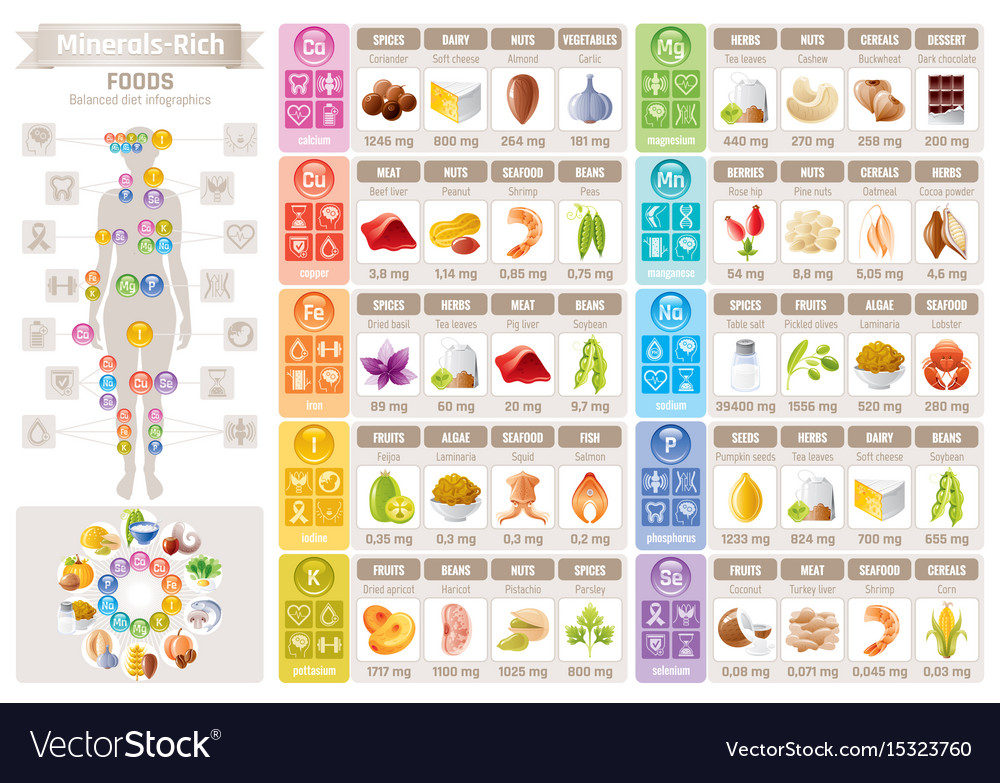
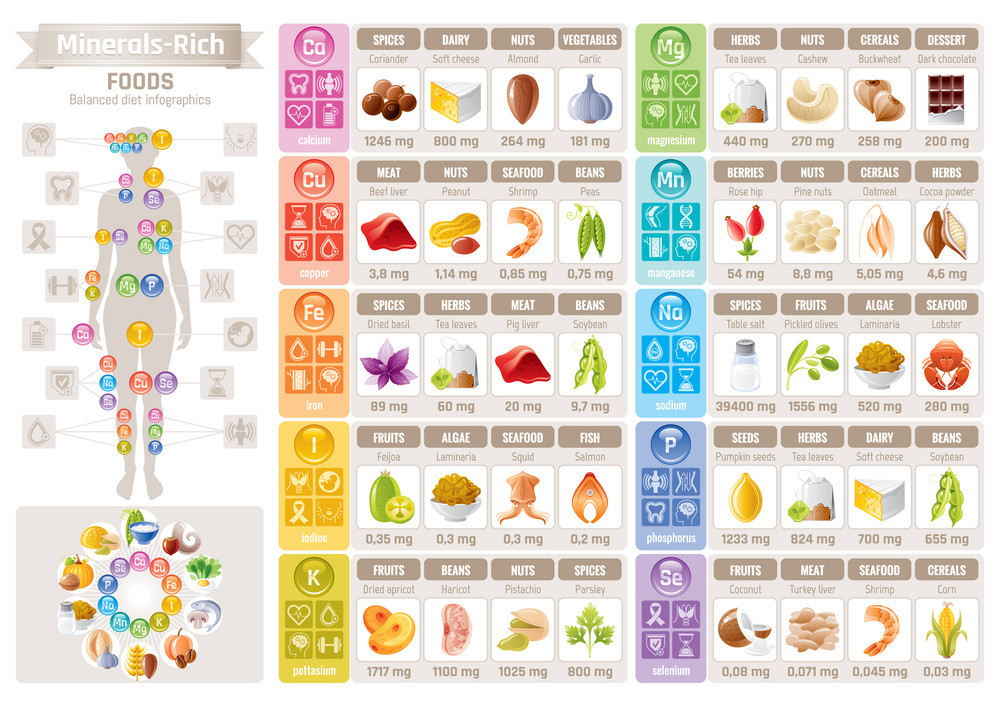
Added information and image to Minerals tab of partial-info.html. Editted image on page to exclude watermark.

diff --git a/views/partial-info.html b/views/partial-info.html
@@ -45,7 +45,6 @@
     </section>
     <br>
     <section class="container">
-        
         <table class="table is-bordered is-hoverable">
                 <tr class="is-selected">
                     <th>VITAMIN</th>
@@ -265,7 +264,33 @@
     </section>
 </div>
 <div id="Minerals" style="display: none;" class="info-tab">
+    <h1 class="title has-text-centered">15 Essential Minerals</h1>
     <section class="container">
+            <div class="tile is-ancestor">
+
+                    <div class="tile is-parent">
+                    <article class="tile is-child box">
+                        <p class="title">Mineral Classifications</p>
+                        <p class="subtitle">Major and Trace</p>
+                        <div class="content">
+                        <p>Your body needs two types of minerals to function normally; major minerals and trace minerals. The classifications of the minerals aren't based on how important they are, but how prevalent they are throughout your body. Meaning, major minerals, such as calcium, chloride, magnesium,phosphorus, potassium, sodium, and sulfur, are found in large amounts in your body; while trace minerals such as chromium, copper, fluoride, iodine, iron, manganese, molybdenum, selenium, and zinc, are found in very small quantities throughout the body.</p>
+                        <br>
+                        <p>The key functions of the major minerals are maintaining the proper balance of water of water in the body, supporting healthy bone structure, and stabilizing protein.</p>
+                        <br>
+                        <p>Trace minerals have numerous tasks, such as transporting oxygen throughout the body, strengthening bones, preventing tooth decay, helping blood clot, enabling your sense of taste and smell, iron metabolism, and the creation of hemoglobin.</p>
+                        </div>
+                    </article>
+                    </div>
+                    <div class="tile is-parent">
+                    <figure class="tile is-child box">
+                        <a href="./images/mineral-vitamin-food-icons-chart-health-care-flat-vector-15323760.jpg" target="_blank"><img src="./images/mineral-vitamin-food-icons-chart-health-care-flat-vector-15323760.jpg" class="image"></a>
+                    </figure>
+                    </div>
+                </div>
+    </section>
+    <br>
+    <section class="container">
+
         <table class="table is-bordered is-hoverable">    
                 <tr class="is-selected">
                     <th>MINERAL</th>
